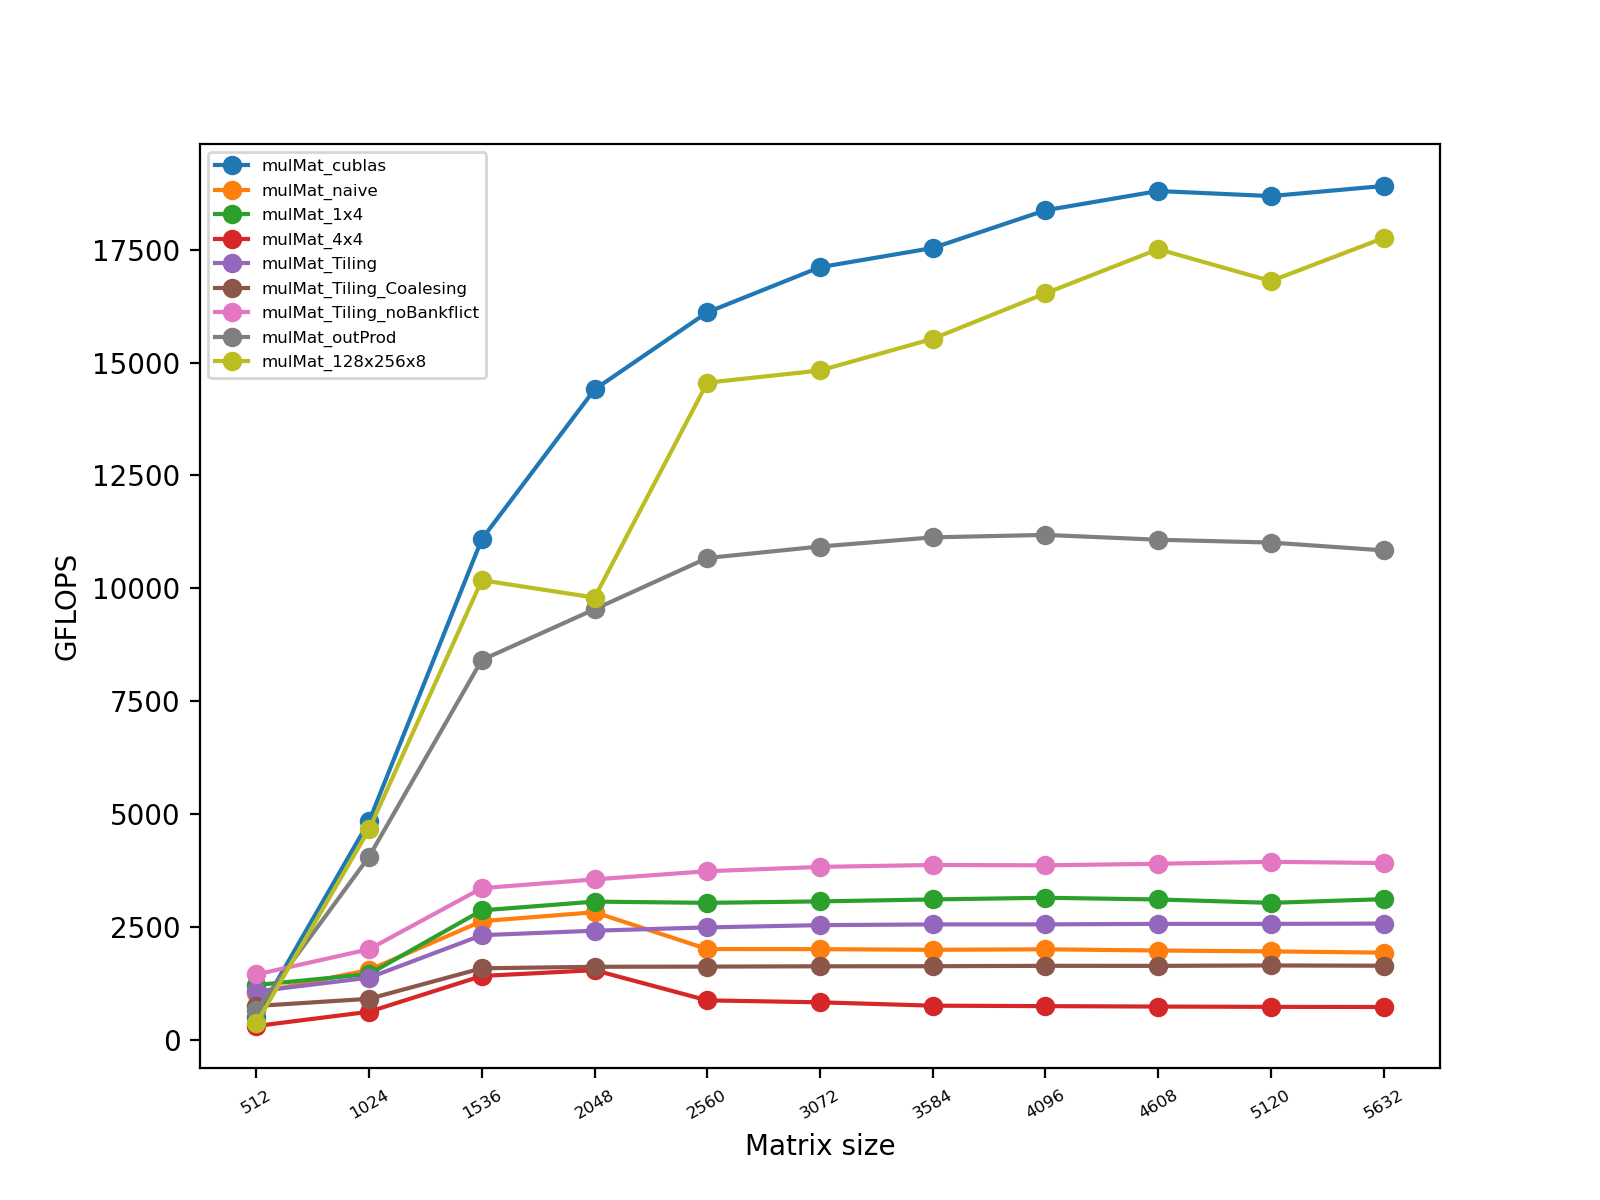
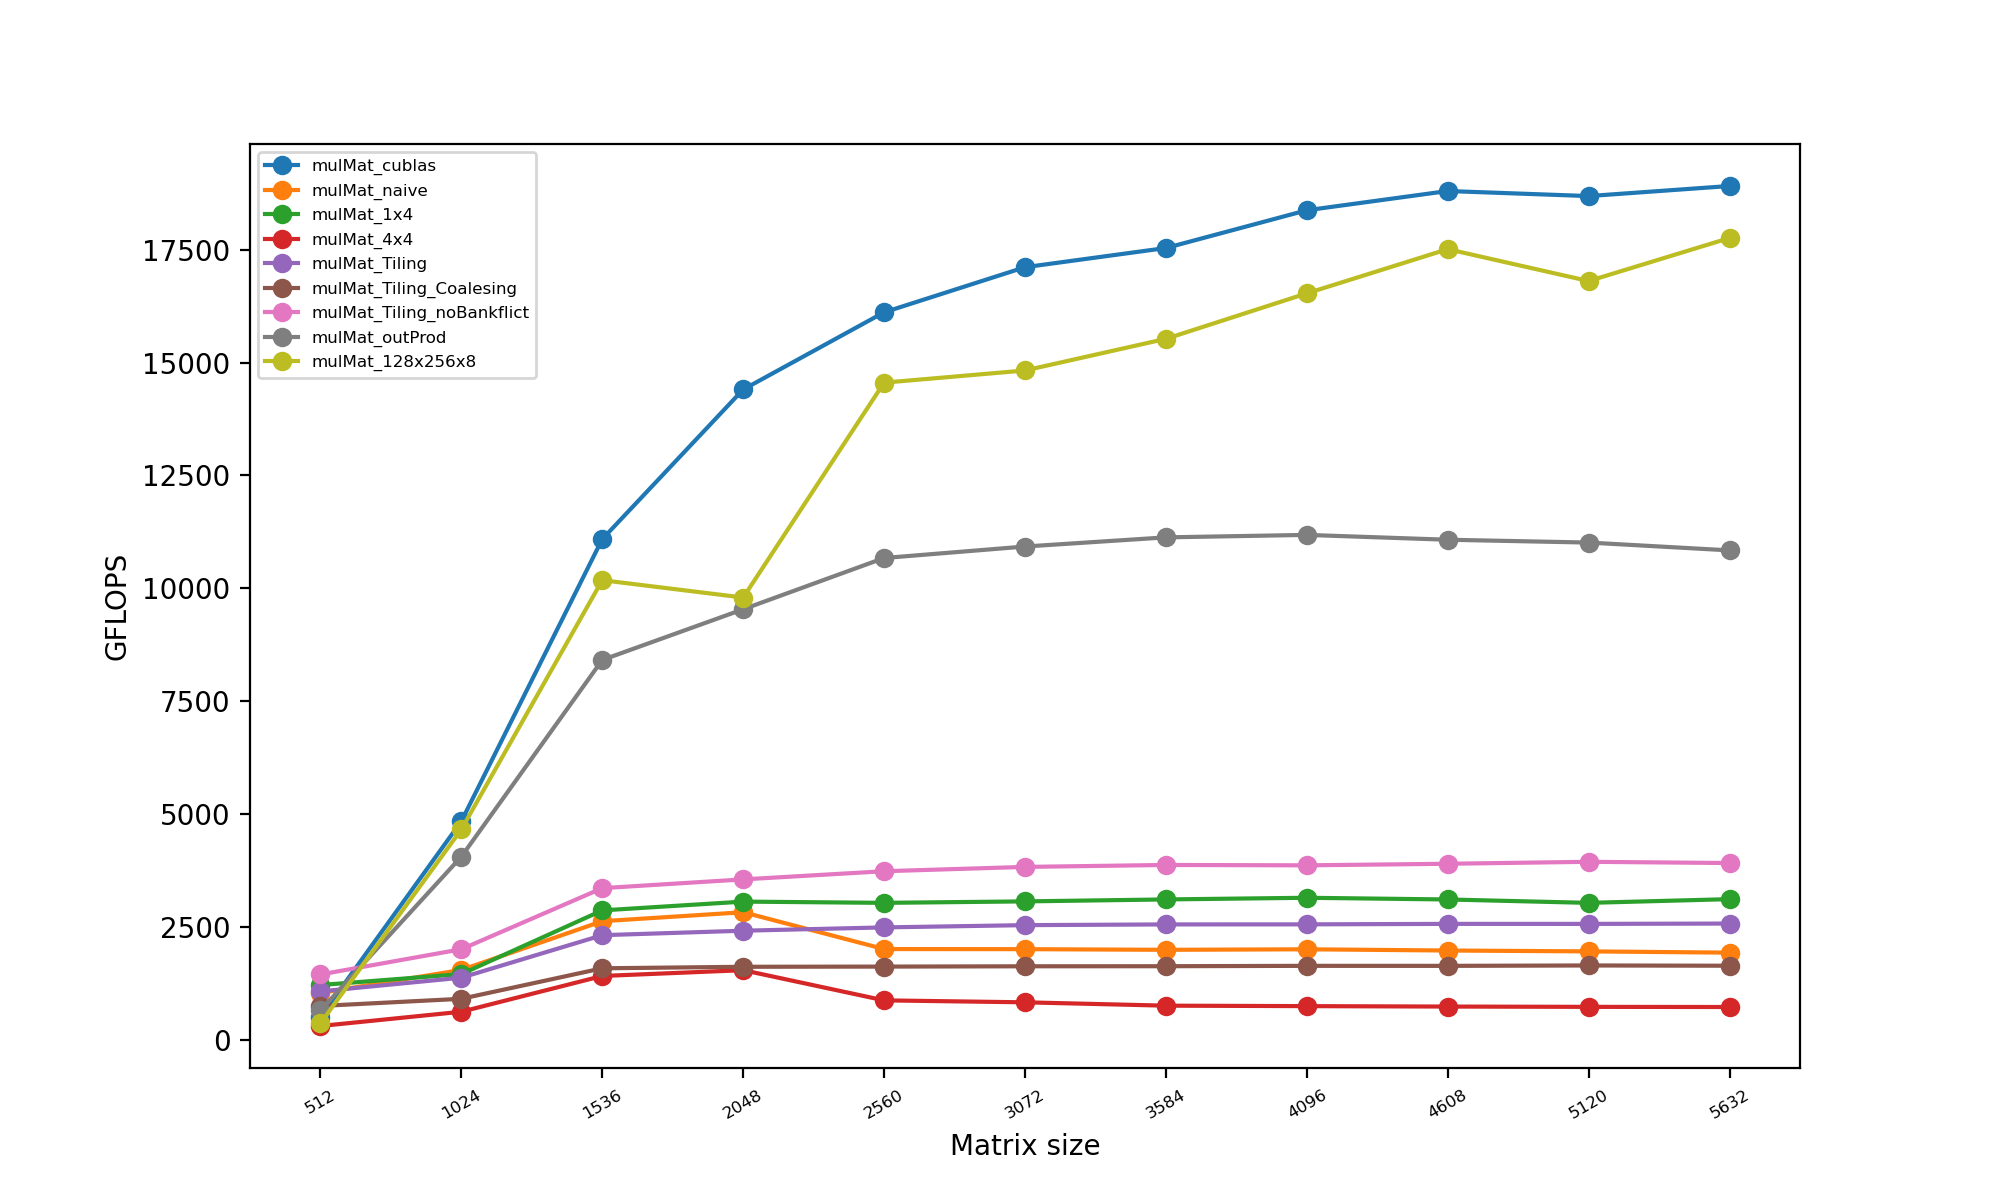
commit

diff --git a/data/plot.py b/data/plot.py
@@ -20,7 +20,7 @@ def main():
             elif line[0] == "A":
                 t.append(float(line.strip().split(" ")[6]))
     res.append(t)
-    fig = plt.figure(dpi=200,figsize=[8,6])
+    fig = plt.figure(dpi=200,figsize=[10,6])
     for j in range(len(res[0])):
         plt.plot(mat_size,[res[i][j] for i in range(len(res))],marker='o')
     plt.legend(lengend, fontsize = 6)
